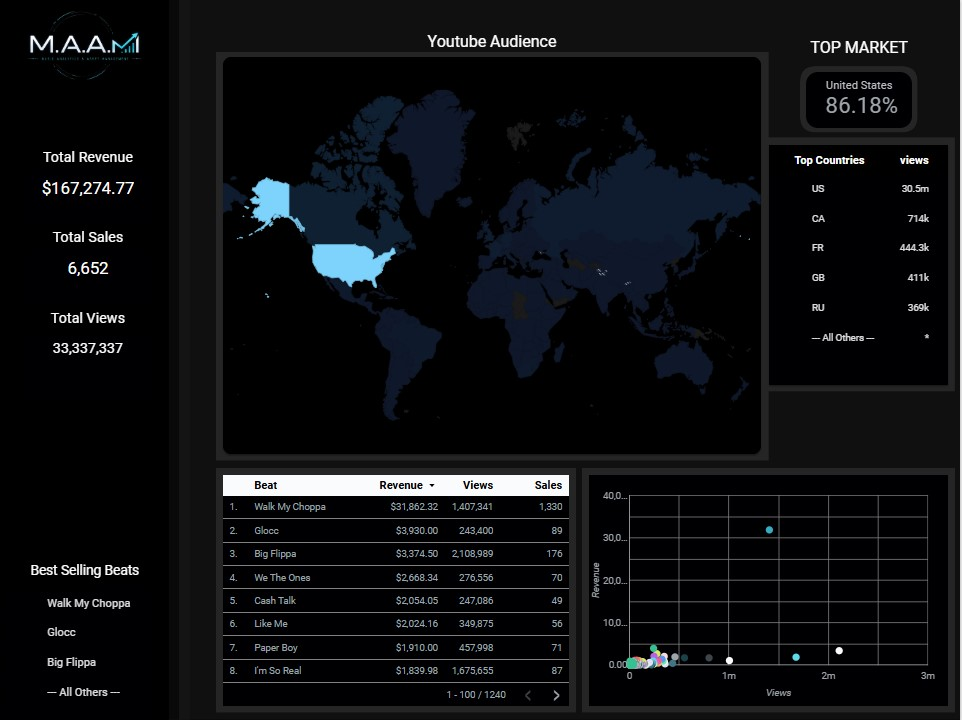
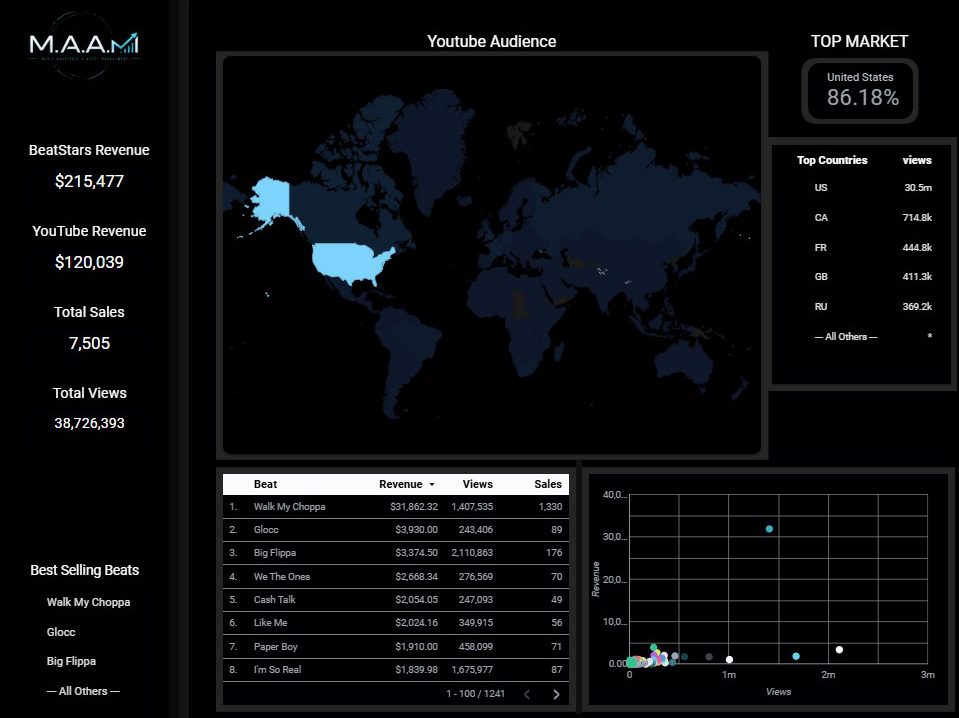
Release MAAM v3.0

diff --git a/README.md b/README.md
@@ -1,129 +1,180 @@
 # MAAM
 
 <p align="center">
-  <strong>Music Analytics & Asset Management</strong><br>
-  An end-to-end data engineering project for combining YouTube Analytics and BeatStars sales into a unified analytics platform.
+  <img src="docs/maam-logo.png" width="180">
+</p>
+
+<p align="center">
+<strong>Music Analytics & Asset Management</strong><br>
+An end-to-end data engineering platform that unifies YouTube Analytics and BeatStars sales into a single business intelligence solution.
 </p>
 
 ---
 
+# Overview
+
+MAAM (Music Analytics & Asset Management) is an end-to-end data engineering project built to automate the collection, transformation, modeling and visualization of music business data.
+
+The platform combines data from YouTube Analytics and BeatStars into a unified analytical model, allowing music producers to monitor performance, evaluate individual beats and make better business decisions from a single dashboard.
+
+Rather than focusing only on visualization, MAAM emphasizes real-world data engineering concepts including ETL pipelines, dimensional modeling, data quality, cloud orchestration, business rules and cross-platform entity matching.
+
+---
+
+# Dashboard
+
 ## Overview
 
-MAAM is an end-to-end data engineering project built to automate the collection, transformation, modeling and visualization of music business data.
+<p align="center">
+<img src="docs/maam-dashboard.jpg">
+</p>
 
-The project extracts data from multiple sources, cleans and validates it, builds analytical data models in BigQuery, and presents cross-platform insights through an interactive  Studio dashboard.
+The Overview dashboard provides a complete snapshot of the music business.
 
-Rather than focusing only on visualization, MAAM emphasizes data engineering concepts such as ETL pipelines, dimensional modeling, data quality, business rules, and cross-platform entity matching.
+Features include:
+
+- BeatStars Revenue
+- YouTube Revenue
+- Total Sales
+- Total Views
+- Geographic audience distribution
+- Best selling beats
+- Revenue vs Views analysis
 
 ---
 
-## Dashboard
+## Beat Performance
 
-![MAAM Dashboard](docs/maam-dashboard.jpg)
+<p align="center">
+<img src="docs/maam-dashboard2.jpg">
+</p>
+
+Analyze the lifetime performance of an individual beat across platforms.
+
+Features include:
+
+- BeatStars Revenue
+- YouTube Revenue
+- Beat Sales
+- Beat Views
+- Release Date
+- Historical monthly sales
 
 ---
 
-## Features
+# Features
 
+- Automated ETL pipelines
 - YouTube Data API integration
 - YouTube Analytics API integration
 - BeatStars sales ingestion
-- Automated ETL pipeline
 - Bronze / Silver / Gold architecture
-- Star schema data model
+- BigQuery dimensional data warehouse
+- Star schema modeling
+- Historical BeatStars sales tracking
 - Cross-platform beat matching
 - Manual business rules for edge cases
 - Country-level audience analytics
+- Cloud Run Jobs
+- Cloud Scheduler automation
+- Secret Manager integration
 - Interactive Google Data Studio dashboard
 
 ---
 
-## Architecture
+# Architecture
 
 ```
-YouTube Data API        YouTube Analytics API        BeatStars CSV Export
-        │                        │                            │
-        └────────────────────────┴────────────────────────────┘
-                                 │
-                                 ▼
-                        Python ETL Pipeline
-                 Extract → Clean → Validate → Transform
-                                 │
-                                 ▼
-                         Local Silver Parquet
-                                 │
-                                 ▼
-                         Google BigQuery
-                       ┌─────────┴─────────┐
-                       │                   │
-                       ▼                   ▼
-                 Silver Datasets      Gold Datasets
-                                      SQL transformations,
-                                      matching rules and
-                                      analytical models
-                                             │
-                                             ▼
-                                  Google Data Studio Dashboard
+             YouTube Data API
+                    │
+                    │
+        YouTube Analytics API
+                    │
+                    │
+        BeatStars Sales Export
+                    │
+                    ▼
+          Python ETL Pipeline
+     Extract → Transform → Validate
+                    │
+                    ▼
+          Local Silver Parquet
+                    │
+                    ▼
+              Google BigQuery
+        ┌────────────┴────────────┐
+        │                         │
+        ▼                         ▼
+     Silver Layer             Gold Layer
+        │                         │
+        └────────────┬────────────┘
+                     ▼
+          Cloud Run Scheduled Jobs
+                     │
+                     ▼
+          Google Data Studio Dashboard
 ```
 
 ---
 
-## Data Model
+# Data Model
 
-### Silver Layer
+## Silver Layer
 
-- `dim_youtube_video`
-- `fact_youtube_video_metrics`
-- `sales_summary`
-
-### Gold Layer
-
-- `youtube_video_performance`
-- `beatstars_sales_performance`
-- `dim_beat`
-- `cross_platform_beat_performance`
-- `youtube_country_performance`
-- `beatstars_matching_rules`
+- dim_youtube_video
+- fact_youtube_video_metrics
+- sales_summary
 
 ---
 
-## Engineering Challenges
+## Gold Layer
 
-### Cross-platform Matching
+- dashboard_overview
+- youtube_video_performance
+- youtube_country_performance
+- beatstars_sales_performance
+- beatstars_daily_beat_sales
+- beatstars_monthly_beat_sales
+- cross_platform_beat_performance
+- beatstars_matching_rules
+- dim_beat
+
+---
+
+# Engineering Challenges
+
+## Cross-platform Entity Matching
 
 BeatStars products and YouTube videos do not share a common identifier.
 
-MAAM resolves this by combining normalized beat names, business rules and manual matching where necessary.
+MAAM resolves this by combining normalized beat names, deterministic business rules and manual overrides where required.
 
 ---
 
-### Duplicate Product Names
+## Ambiguous Product Names
 
-Different BeatStars products can legitimately share the same product name.
+Different BeatStars products may legitimately share the same product name.
 
-Instead of forcing incorrect joins, MAAM detects ambiguous matches and isolates them until explicit business rules are provided.
-
----
-
-### Manual Matching Rules
-
-Some historical edge cases require deterministic matching.
-
-Examples include:
-
-- Walk My Choppa
-- In My Cup
-
-These are handled through a dedicated `beatstars_matching_rules` layer instead of hardcoded SQL logic.
+Instead of creating incorrect joins, ambiguous matches are isolated until deterministic matching rules become available.
 
 ---
 
-## Technologies
+## Manual Matching Rules
+
+Historical edge cases are handled through a dedicated matching table instead of hardcoded SQL logic.
+
+This approach keeps transformation logic clean while allowing controlled business overrides.
+
+---
+
+# Technologies
 
 - Python
 - Pandas
 - Google BigQuery
-- Google Cloud Platform
+- Google Cloud Run Jobs
+- Google Cloud Scheduler
+- Google Secret Manager
 - YouTube Data API
 - YouTube Analytics API
 - Google Data Studio
@@ -132,7 +183,7 @@ These are handled through a dedicated `beatstars_matching_rules` layer instead o
 
 ---
 
-## Project Structure
+# Project Structure
 
 ```
 src/
@@ -142,40 +193,35 @@ src/
 ├── load/
 │
 main.py
-
 README.md
 ```
 
 ---
 
-## Requirements
+# Requirements
 
 This project uses private YouTube Analytics data, private BeatStars sales exports and a personal Google Cloud project.
 
-The repository is intended to demonstrate the design and implementation of an end-to-end data engineering solution.
+To run the pipeline yourself you will need:
 
-To run the pipeline yourself, you would need:
-
-- Your own Google Cloud project
-- OAuth credentials (`client_secret.json`)
-- YouTube Data API enabled
-- YouTube Analytics API enabled
-- A BeatStars sales export (CSV)
-- A BigQuery dataset
+- Google Cloud Project
+- OAuth Credentials
+- YouTube Data API
+- YouTube Analytics API
+- BeatStars Sales Export
+- BigQuery Dataset
 
 ---
 
-The commands below assume that the required credentials, source data and Google Cloud resources have already been configured.
+# Running the Pipeline
 
-## Running the Pipeline
-
-Activate the virtual environment:
+Activate the virtual environment
 
 ```powershell
 .\.venv\Scripts\Activate.ps1
 ```
 
-Run the complete ETL pipeline:
+Run the complete ETL pipeline
 
 ```powershell
 python main.py
@@ -183,20 +229,24 @@ python main.py
 
 ---
 
-## Future Improvements
+## Roadmap
 
-Version 2 may include:
+### Version 4 (Planned)
 
-- Spotify integration
-- Instagram integration
-- Time-series analytics
-- Automated reporting
-- AI-generated insights
+- Dynamic Time Intelligence
+  - Last 24 Hours
+  - Last 7 Days
+  - Last 30 Days
+  - Last 90 Days
+  - Lifetime
+
+- Estimated Exclusive Value
+  - Data-driven exclusive pricing based on historical performance
 
 ---
 
-## Version
+Future versions may include additional platform integrations, advanced business intelligence features and AI-assisted analytics.
 
-Current release:
+# Current Version
 
-**MAAM v1.0**
+**MAAM v3.0**
